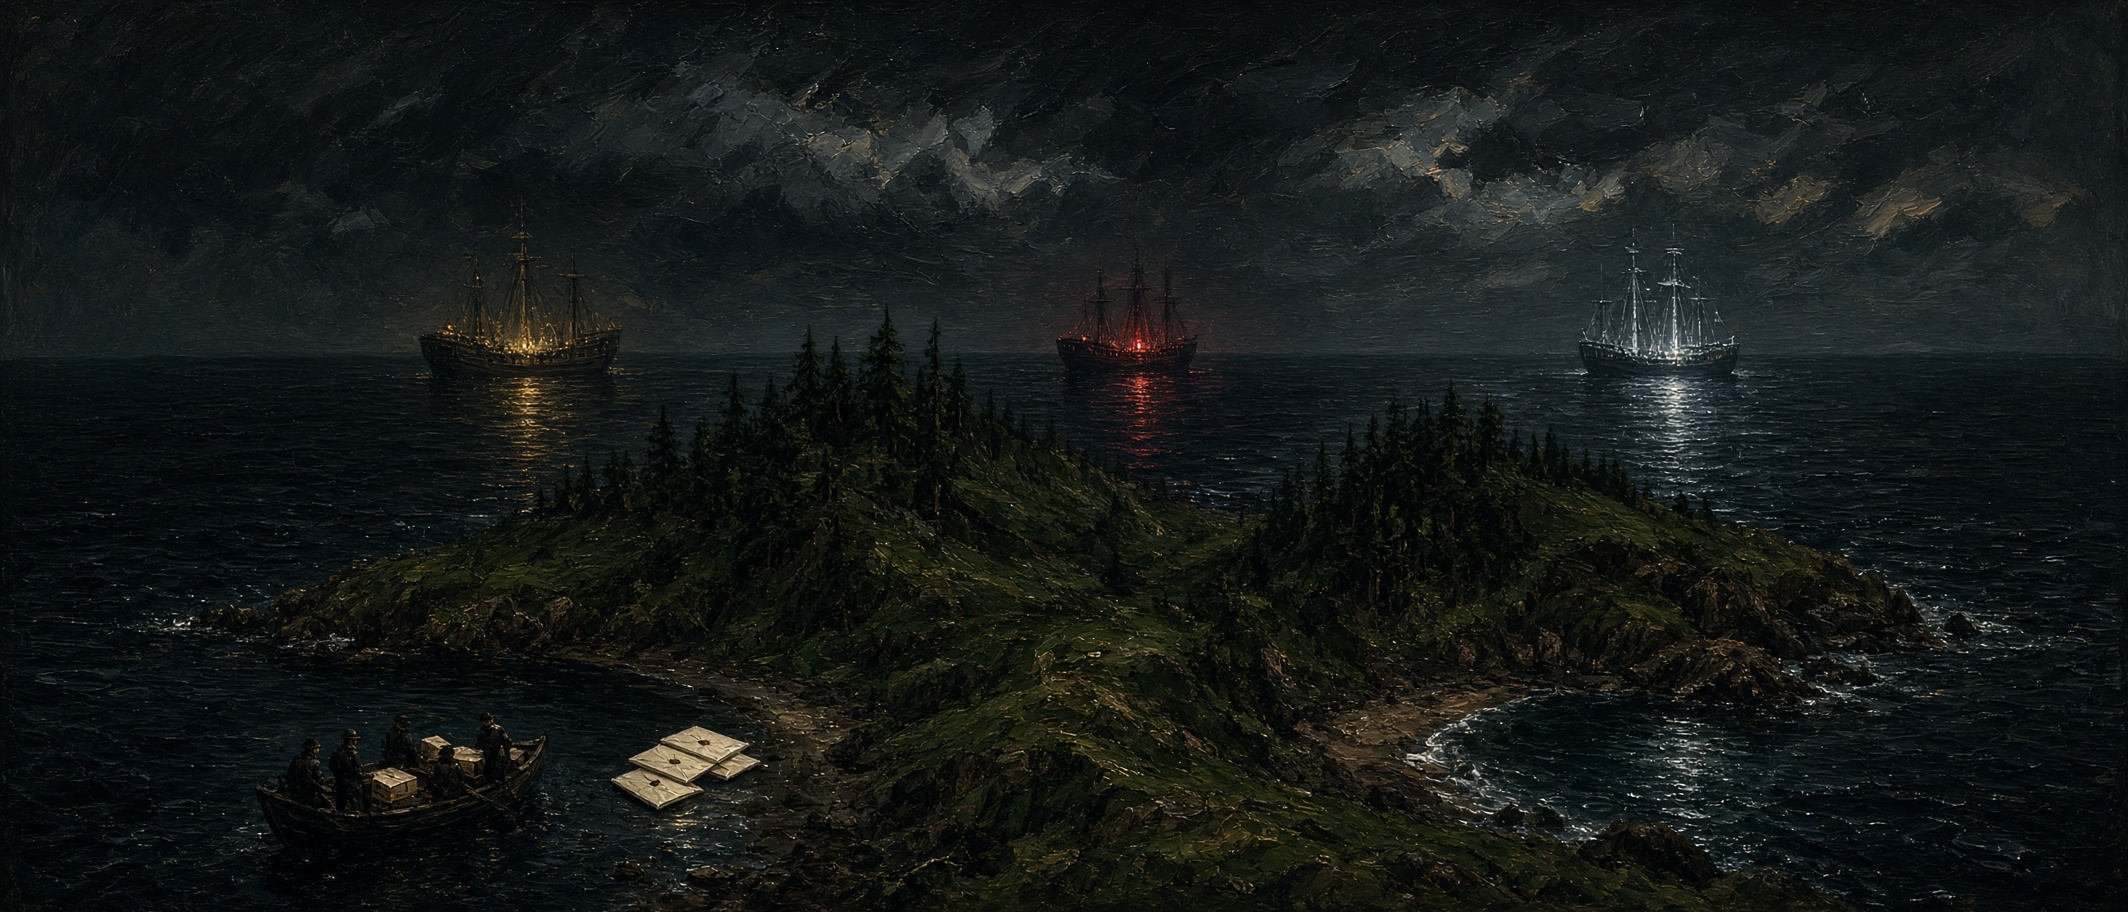
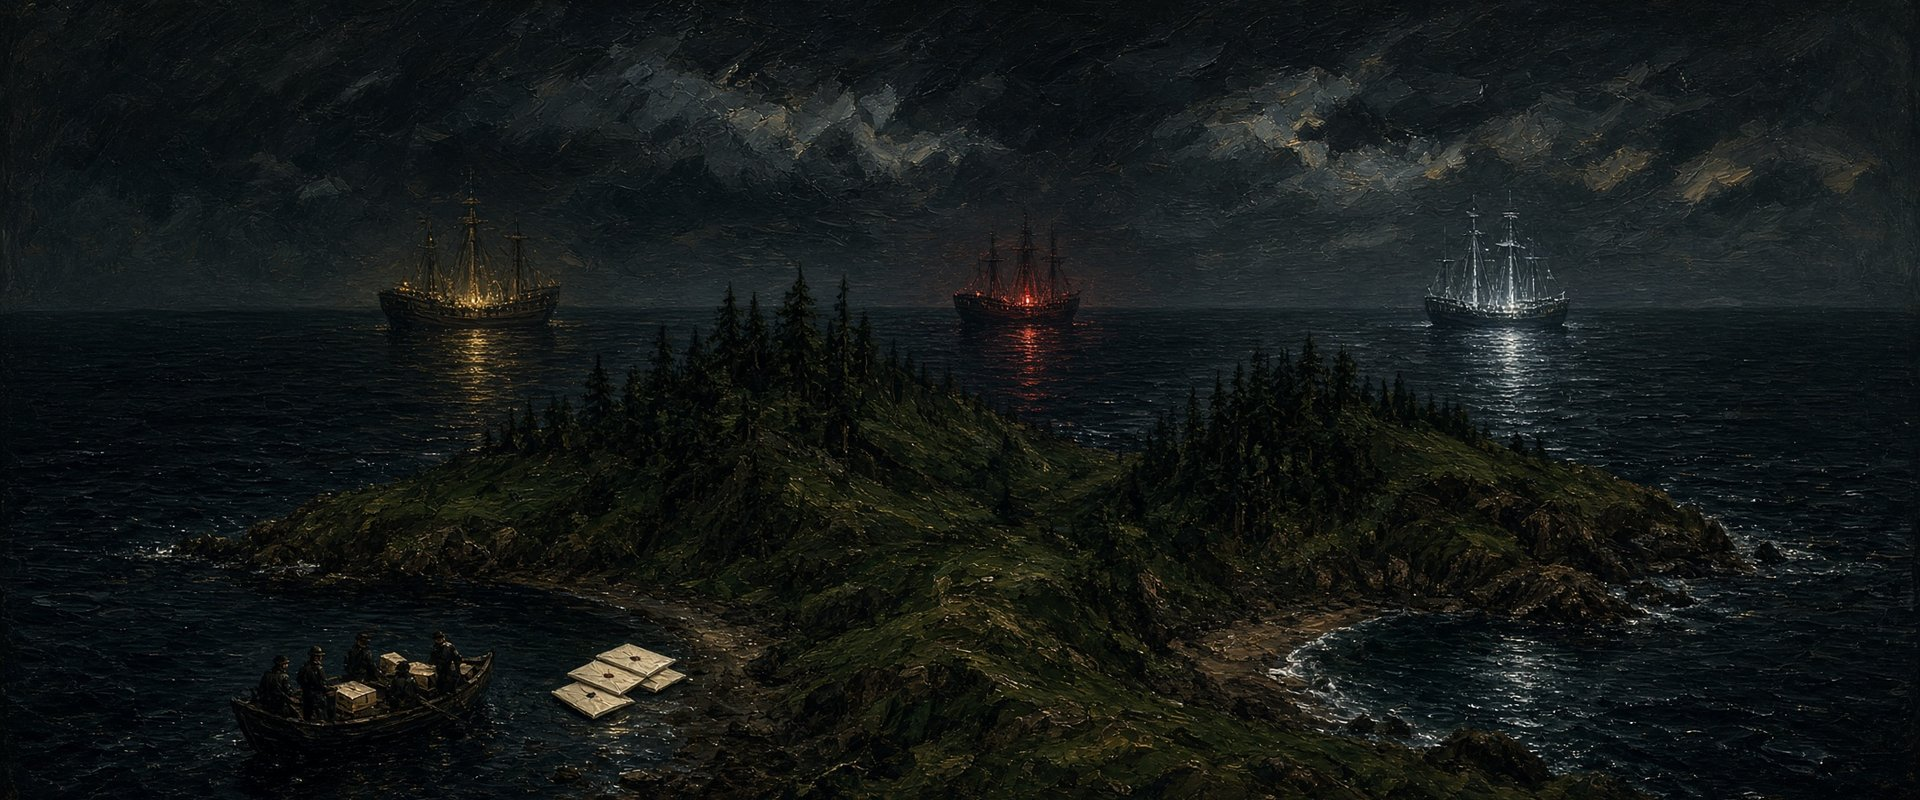
Arc art: Marek restyles (poker, wine, courage, tetris, theQuestion, fourthColor) as wide JPG; all wide PNGs -> JPG q85 (~55% smaller); bloc/battle JPGs resized to 1920x800; cache v=cin10

diff --git a/choppy-bitcoin/game.js b/choppy-bitcoin/game.js
@@ -2876,13 +2876,7 @@
   }
 
   const ARC_VID = { landfill: 1, proposal: 1, mexico: 1, phish: 1, baby: 1 };
-  const WIDE_ART_PNG = new Set([
-    "citadelQuestion", "declaration", "justInCase", "nothingToHide", "extensionCord",
-    "firstBloc", "somethingBetter", "temporaryMeasures", "timeTraveler", "nobodyKnows",
-    "theOg", "obviously", "peopleAsking", "placeNow", "principality", "stateVisit",
-    "protectIsland", "rearmament", "theQuestion", "threeColors", "fourthColor",
-    "notYet", "theAnswer", "festival", "chess"
-  ]);
+  const WIDE_ART_PNG = new Set([]);  // all wide art is JPG now (mobile weight)
   const WIDE_ART_JPG = new Set([
     "citadelProblem", "pieceWorld", "islandInspection", "paperwork",
     "ortegaCalls", "ambassador", "anOffer",
@@ -2895,6 +2889,13 @@
     "jobCareerathleticTier4", "jobCareerathleticTier6", "jobCareermedicalTier2",
     "jobCareermedicalTier4", "jobCareermedicalTier6", "jobCareermaritimeTier2",
     "jobCareermaritimeTier4", "jobCareermaritimeTier6",
+    // former PNG panoramas + Marek restyles
+    "citadelQuestion", "declaration", "justInCase", "nothingToHide", "extensionCord",
+    "firstBloc", "somethingBetter", "temporaryMeasures", "timeTraveler", "nobodyKnows",
+    "theOg", "obviously", "peopleAsking", "placeNow", "principality",
+    "stateVisit", "protectIsland", "rearmament", "threeColors", "notYet",
+    "theAnswer", "festival", "chess", "poker", "wine",
+    "courage", "tetris", "theQuestion", "fourthColor",
     "jobCareerdivingTier4", "jobCareerdivingTier6", "jobCareerscienceTier2",
     "jobCareerscienceTier4", "jobCareerscienceTier6", "jobCareerlawTier2",
     "jobCareerlawTier4", "jobCareerlawTier6", "jobCareerculinaryTier2",
@@ -2937,7 +2938,7 @@
       const v = ARC_ART_VERSIONS[artId] || "gpt4";
       src = "chance/" + artId + "-wide.png?v=" + v;
     } else if (isWide) {
-      src = "chance/" + (artId.endsWith("-wide") ? artId : artId + "-wide") + ".jpg?v=cin9";
+      src = "chance/" + (artId.endsWith("-wide") ? artId : artId + "-wide") + ".jpg?v=cin10";
     } else {
       src = "chance/" + artId + ".jpg?v=mp86";
     }
